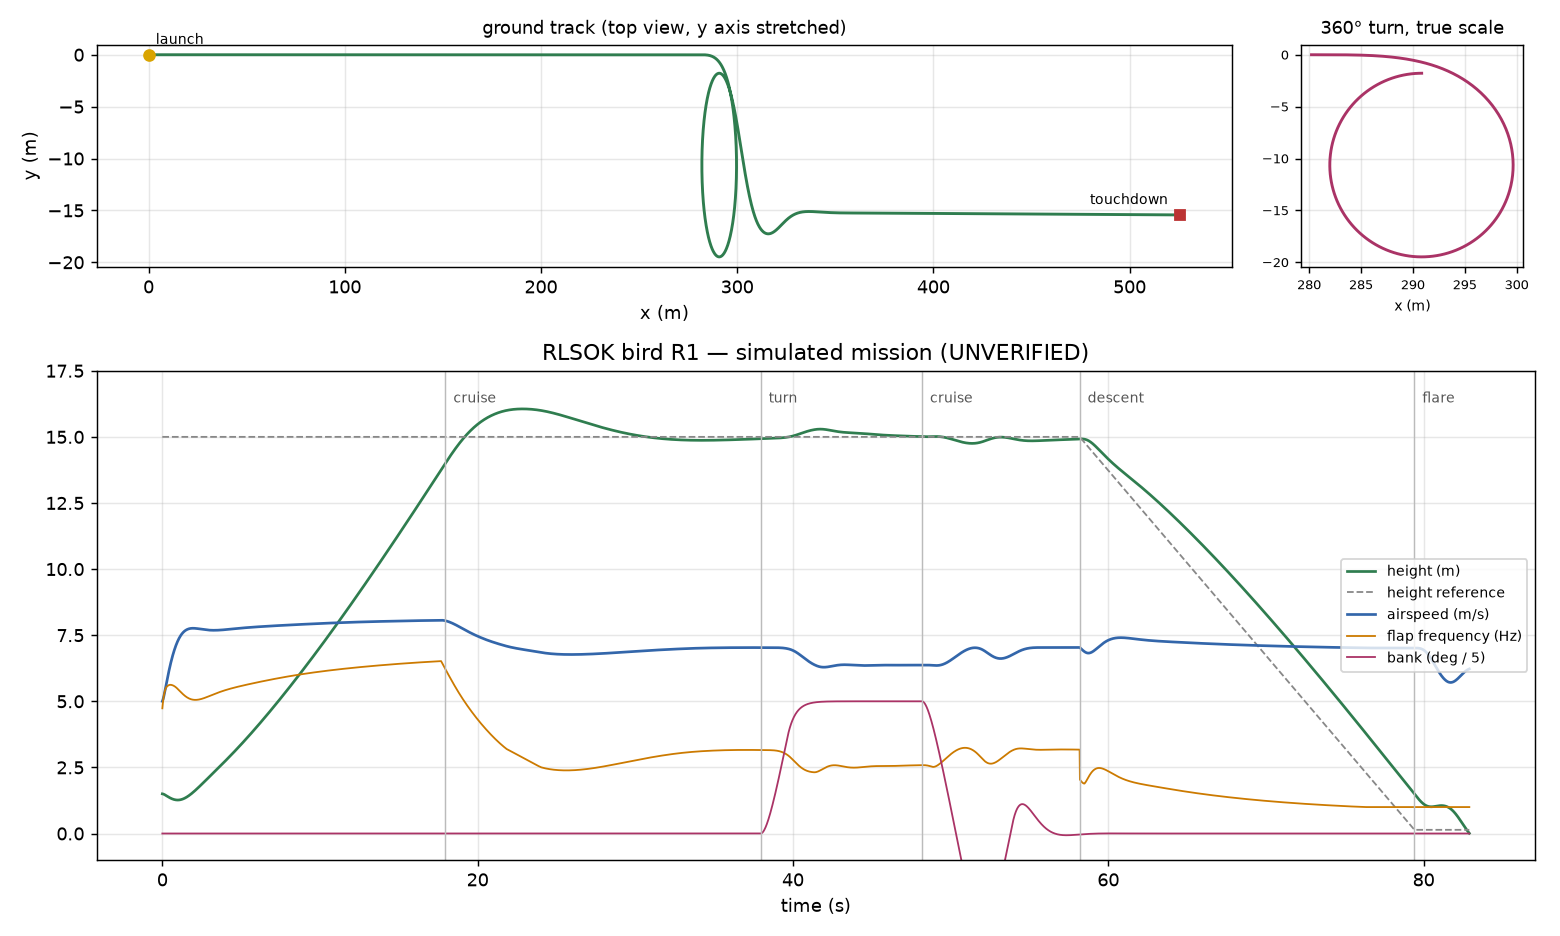
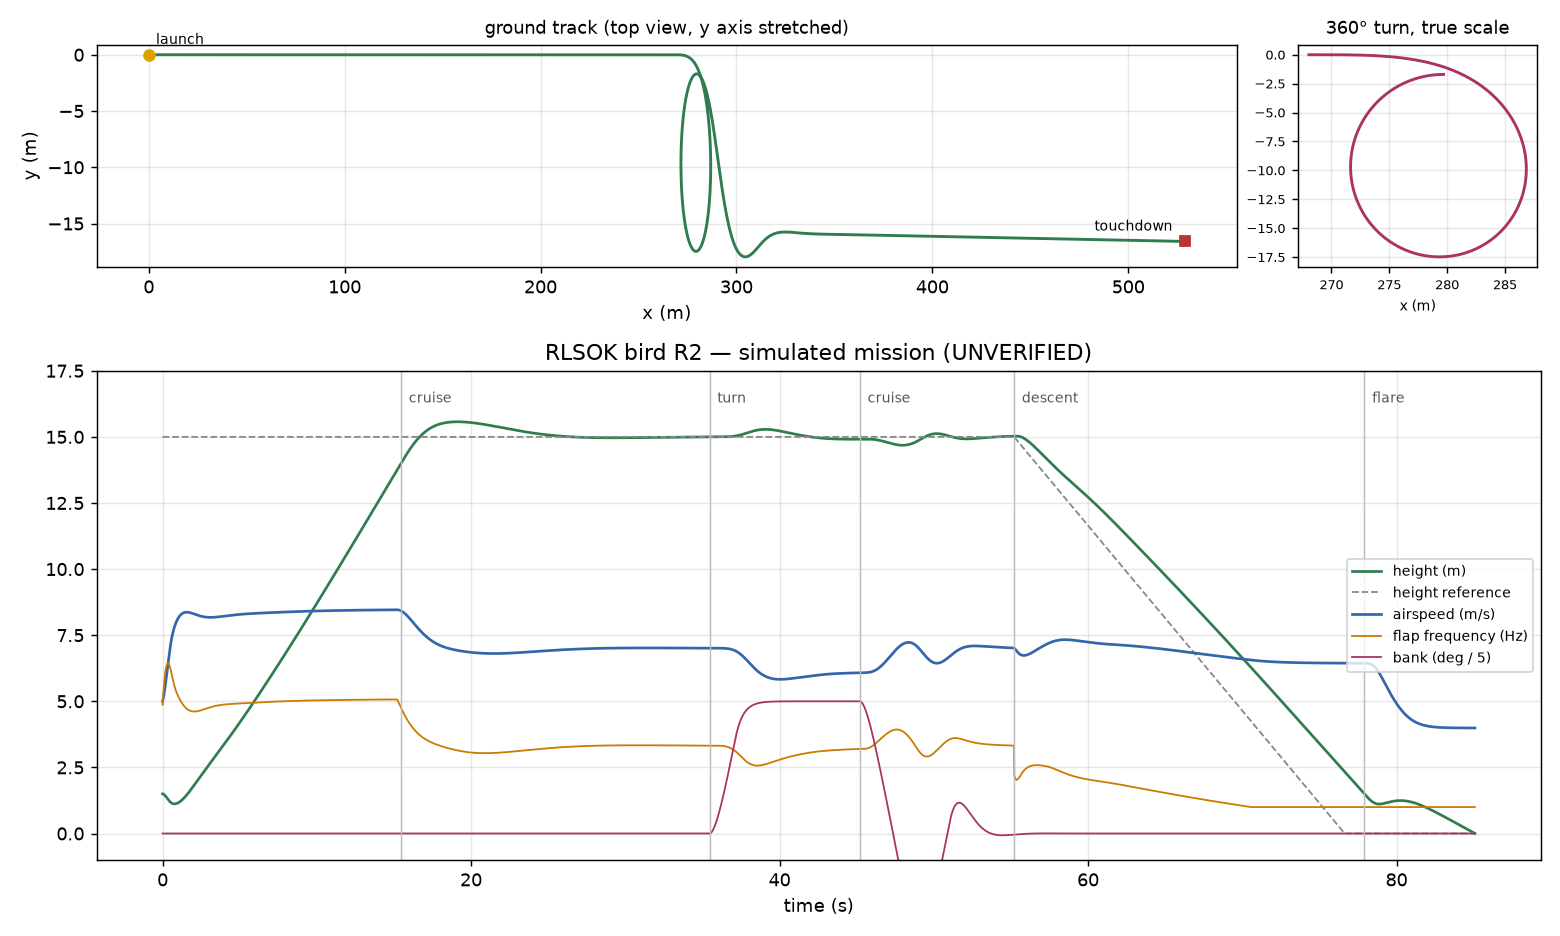
site: RLSOK 0.1.8, bird R2 r2e (DeLaurier two-wing model; UVLM, SmartBird and Eye-Bird checks)

diff --git a/site/i18n.js b/site/i18n.js
@@ -23,7 +23,7 @@ window.RLSOK_I18N = {
     cd: '如实判定：后退跟踪 0.146 > 0.130', cdv: '未通过',
     open: '打开 ↗', g1k: 'G1 人形 · 引擎一致性', g1: '10 个随机种子不摔 · 与上游 mjlab 观测差 1.4e-5',
     relPage: 'GitHub Releases 发布页 ↗',
-    birdk: '仿生鸟 R2 · 像真鸟的外形 + 航线仿真', bird: '手抛 · 爬升 15 m · 平飞 · 360° 转弯 · 降落；22 组（姿态滞后、振荡姿态、风）全过', birdTag: '仅仿真通过 · 未验证', birdDl: '下载制作包：零件清单与参考价 · 打印文件 · 裁剪模板 · 飞控参数 ↓', fig3: '图 3 · RLSOK 仿生鸟 R2（原创外形，海鸥/鸢比例，翼展 1.46 m，349 g）在 RLSOK 仿真中完成航线。两翼气动在唯一的公开实测点（SmartBird）和高精度仿真核对上都未通过，姿态模型四次验证未通过：需要真机数据确认', fig3b: '航线仿真记录：地面轨迹、高度、空速、扑动频率、坡度。巡航 7 m/s、扑动 3.1 Hz、续航 ≤ 15 min（上限）',
+    birdk: '仿生鸟 R2 · 像真鸟的外形 + 航线仿真', bird: '手抛 · 爬升 15 m · 平飞 · 360° 转弯 · 降落；22 组（姿态滞后、振荡姿态、风）全过', birdTag: '仅仿真通过 · 未验证', birdDl: '下载制作包：零件清单与参考价 · 打印文件 · 裁剪模板 · 飞控参数 ↓', fig3: '图 3 · RLSOK 仿生鸟 R2（原创外形，海鸥/鸢比例，翼展 1.46 m，349 g）在 RLSOK 仿真中完成航线。两翼气动改用 DeLaurier 模型（加扑动平面倾角），通过了 UVLM 高精度仿真核对和 SmartBird 实测点，但在 GRIFFIN Eye-Bird 慢飞实测上没有通过；姿态模型四次验证未通过：需要真机数据确认。视频录于上一版 r2d（外形相同，飞行数字以下图 r2e 为准）', fig3b: '航线仿真记录：地面轨迹、高度、空速、扑动频率、坡度。巡航 7 m/s、扑动 3.3 Hz、续航 ≤ 19.6 min（上限）',
     fig2: '图 2 · G1 官方策略在 RLSOK MuJoCo 引擎中行走（Apache-2.0）',
     reqT: '配置要求', rUse: '用途', rNeed: '需要',
     rBasic: '电路设计 · 机器人行走基准', rBasicN: 'Windows 10/11 64 位 · 8 GB 内存 · 1 GB 磁盘 · 不需要显卡',
@@ -36,7 +36,7 @@ window.RLSOK_I18N = {
     ti_duckv: '{h} 小时 · level 2 通过', sec: '{s} 秒', EST: '估算', MEASURED: '实测',
     reqNote: '最低配置没有在更低端的电脑上测过。G1 训练只测了吞吐和显存（20 次迭代），没有跑完整训练；“约 N 小时”是按实测速度算的估计。',
     engT: '引擎状态', eEngine: '引擎', eDomain: '领域', eState: '状态',
-    e_ngspice: '电路', e_mujoco: '机器人动力学', e_train: '策略训练复现（Open Duck，3 亿步）', e_mjlab: 'G1 训练（吞吐已实测，训练结果未验证）', e_rtl: 'GPU RTL 仿真', e_flap: '扑翼气动力（仅 DelFly 类 X 形翼、11–15 Hz、0.25–1.4 m/s，周期平均升力/推力，公开飞行数据留出验证）', e_batt: '扑翼姿态动力学（四次验证未通过；第 4 次测准了俯仰模态但物理模型不稳定；仿真扫描滞后与振荡两类假设）', e_bird: '两翼扑翼气动（条带理论）：SmartBird 实测点核对未通过（频率），UVLM 高精度仿真核对未通过（升力已按 0.78 保守修正）；设计流程与 22 组航线仿真结果全部未验证', e_ccx: '结构强度', e_foam: '流体',
+    e_ngspice: '电路', e_mujoco: '机器人动力学', e_train: '策略训练复现（Open Duck，3 亿步）', e_mjlab: 'G1 训练（吞吐已实测，训练结果未验证）', e_rtl: 'GPU RTL 仿真', e_flap: '扑翼气动力（仅 DelFly 类 X 形翼、11–15 Hz、0.25–1.4 m/s，周期平均升力/推力，公开飞行数据留出验证）', e_batt: '扑翼姿态动力学（四次验证未通过；第 4 次测准了俯仰模态但物理模型不稳定；仿真扫描滞后与振荡两类假设）', e_bird: '两翼扑翼气动（DeLaurier + 扑动平面倾角）：UVLM 核对通过（求解器已对 Garrick 理论核过），SmartBird 实测点通过（频率差 22 %），GRIFFIN Eye-Bird 慢飞实测未通过（3–5 m/s 升力低估约一半）；设计流程与 22 组航线仿真结果全部未验证', e_ccx: '结构强度', e_foam: '流体',
     VERIFIED: '已验证', UNVERIFIED: '未验证', PLANNED: '计划中', NOT_RUN: '未运行', FAILED: '未通过', INFEASIBLE: '不可实现', PASS: '通过',
     eNote: '“已验证”只在声明的条件下成立；每一行都能追溯到原始运行记录。',
     ctaT: '在你自己的电脑上运行', cta: '下载、安装、点一个示例。实测约 5 分钟看到第一个真实结果（G1 示例）。', ctaBtn: '下载 →',
@@ -81,7 +81,7 @@ window.RLSOK_I18N = {
     cd: 'Reported as is: backward tracking 0.146 > 0.130', cdv: 'Failed',
     open: 'Open ↗', g1k: 'G1 humanoid · engine consistency', g1: '0 falls in 10 random seeds · 1.4e-5 observation difference vs upstream mjlab',
     relPage: 'GitHub Releases page ↗',
-    birdk: 'Bionic bird R2 · bird-like shape + mission simulation', bird: 'Hand launch · climb 15 m · cruise · 360° turn · landing; all 22 runs pass (attitude lags, oscillatory attitude, wind)', birdTag: 'Simulation only · unverified', birdDl: 'Download the build package: parts list and reference prices · print files · cutting template · flight parameters ↓', fig3: 'Fig. 3 · RLSOK bird R2 (original shape, gull / kite proportions, 1.46 m span, 349 g) flying its mission in the RLSOK simulation. The two-wing aerodynamics failed both the only published measured point (SmartBird) and a high-fidelity simulation cross-check; the attitude model failed validation four times: real flight data is needed', fig3b: 'Mission log: ground track, height, airspeed, flap frequency, bank. Cruise 7 m/s, flapping 3.1 Hz, endurance ≤ 15 min (upper bound)',
+    birdk: 'Bionic bird R2 · bird-like shape + mission simulation', bird: 'Hand launch · climb 15 m · cruise · 360° turn · landing; all 22 runs pass (attitude lags, oscillatory attitude, wind)', birdTag: 'Simulation only · unverified', birdDl: 'Download the build package: parts list and reference prices · print files · cutting template · flight parameters ↓', fig3: 'Fig. 3 · RLSOK bird R2 (original shape, gull / kite proportions, 1.46 m span, 349 g) flying its mission in the RLSOK simulation. The two-wing aerodynamics now use the DeLaurier model with stroke-plane tilt: it passed the UVLM high-fidelity cross-check and the SmartBird measured point but failed the GRIFFIN Eye-Bird slow-flight data; the attitude model failed validation four times: real flight data is needed. The video was recorded on the previous version r2d (same shape; the chart below is r2e)', fig3b: 'Mission log: ground track, height, airspeed, flap frequency, bank. Cruise 7 m/s, flapping 3.3 Hz, endurance ≤ 19.6 min (upper bound)',
     fig2: 'Fig. 2 · G1 official policy walking in the RLSOK MuJoCo engine (Apache-2.0)',
     reqT: 'System requirements', rUse: 'Use', rNeed: 'You need',
     rBasic: 'Circuits · robot walking benchmark', rBasicN: 'Windows 10/11 64-bit · 8 GB RAM · 1 GB disk · no GPU needed',
@@ -94,7 +94,7 @@ window.RLSOK_I18N = {
     ti_duckv: '{h} h · level 2 passed', sec: '{s} s', EST: 'Estimate', MEASURED: 'Measured',
     reqNote: 'The minimum has not been tested on lower-end PCs. G1 training was measured for throughput and memory only (20 iterations), not run to completion; “≈ N h” is computed from the measured speed.',
     engT: 'Engine status', eEngine: 'Engine', eDomain: 'Domain', eState: 'Status',
-    e_ngspice: 'Circuits', e_mujoco: 'Robot dynamics', e_train: 'Policy training reproduction (Open Duck, 300M steps)', e_mjlab: 'G1 training (throughput measured, results unverified)', e_rtl: 'GPU RTL simulation', e_flap: 'Flapping-wing aerodynamics (DelFly-like X-wings only, 11–15 Hz, 0.25–1.4 m/s, cycle-average lift/thrust, held-out public flight data)', e_batt: 'Flapping-wing attitude dynamics (failed validation four times; attempt 4 measured the pitch mode but the physics model is unstable; the sim sweeps lag and oscillatory assumptions)', e_bird: 'Two-wing flapping aerodynamics (strip theory): failed the SmartBird measured point (frequency) and the UVLM high-fidelity cross-check (lift corrected by 0.78); design flow and 22-run mission results all unverified', e_ccx: 'Structural strength', e_foam: 'Fluid flow',
+    e_ngspice: 'Circuits', e_mujoco: 'Robot dynamics', e_train: 'Policy training reproduction (Open Duck, 300M steps)', e_mjlab: 'G1 training (throughput measured, results unverified)', e_rtl: 'GPU RTL simulation', e_flap: 'Flapping-wing aerodynamics (DelFly-like X-wings only, 11–15 Hz, 0.25–1.4 m/s, cycle-average lift/thrust, held-out public flight data)', e_batt: 'Flapping-wing attitude dynamics (failed validation four times; attempt 4 measured the pitch mode but the physics model is unstable; the sim sweeps lag and oscillatory assumptions)', e_bird: 'Two-wing flapping aerodynamics (DeLaurier + stroke-plane tilt): passed the UVLM cross-check (solver checked against Garrick theory) and the SmartBird measured point (frequency within 22 %), failed the GRIFFIN Eye-Bird slow-flight data (lift about half too low at 3–5 m/s); design flow and 22-run mission results all unverified', e_ccx: 'Structural strength', e_foam: 'Fluid flow',
     VERIFIED: 'Verified', UNVERIFIED: 'Unverified', PLANNED: 'Planned', NOT_RUN: 'Not run', FAILED: 'Failed', INFEASIBLE: 'Infeasible', PASS: 'Pass',
     eNote: '“Verified” holds only under the stated conditions; every row traces back to an original run record.',
     ctaT: 'Run it on your own computer', cta: 'Download, install, press an example. About 5 minutes to the first real result (G1 example, measured).', ctaBtn: 'Download →',

diff --git a/site/index.html b/site/index.html
@@ -7,7 +7,7 @@
 <meta name="theme-color" content="#0b0d0c"><link rel="canonical" href="https://rlsok.com/">
 <meta property="og:title" content="RLSOK"><meta property="og:description" content="Your AI designs. RLSOK checks it against reality."><meta property="og:type" content="website"><meta property="og:url" content="https://rlsok.com/"><meta property="og:image" content="https://rlsok.com/social.svg">
 <link rel="icon" href="favicon.svg?v=19345691d2" type="image/svg+xml"><link rel="stylesheet" href="styles.css?v=17ad95bcf0">
-<script src="i18n.js?v=71c5c1f2c2" defer></script><script src="scope.js?v=73b29d41f4" defer></script><script src="app.js?v=f3aa625698" defer></script>
+<script src="i18n.js?v=851c16f70b" defer></script><script src="scope.js?v=73b29d41f4" defer></script><script src="app.js?v=f3aa625698" defer></script>
 </head>
 <body>
 <a class="skip" href="#main" data-t="skip">Skip to content</a>
@@ -20,7 +20,7 @@
   <h1 data-th="h1">Your AI designs.<br>RLSOK checks it against reality.</h1>
   <p class="scopesite" data-t="scopeSite"></p>
   <div class="dl">
-    <a class="btn dlbtn" id="dl-btn" href="https://github.com/ZqiEE/rlsok-engineering/releases/download/v0.1.7/RLSOK-0.1.7-windows-x64.zip"><span id="dl-label" data-t="dlWin">Download for Windows</span><small id="dl-meta"></small></a>
+    <a class="btn dlbtn" id="dl-btn" href="https://github.com/ZqiEE/rlsok-engineering/releases/download/v0.1.8/RLSOK-0.1.8-windows-x64.zip"><span id="dl-label" data-t="dlWin">Download for Windows</span><small id="dl-meta"></small></a>
     <div class="dlside"><p id="dl-os" class="dlos"></p>
       <div class="mob" id="mob" hidden><button type="button" class="btn alt" id="copy-link" data-t="copyLink">Copy download link</button><a class="btn alt" id="mail-link" data-t="mailLink" href="#">Email it to me</a></div>
       <p class="dlmeta"><a href="start.html" data-t="dlHow">Install guide</a> · <span data-t="dlFree">Free · runs on your computer · your AI, your GPU</span></p>
@@ -37,9 +37,9 @@
 <section class="wrap block" id="bird">
   <div class="robot">
     <figure class="video"><video src="media/bird_r2_mission.mp4#t=0.5" poster="media/bird_r2_poster.webp" muted playsinline controls preload="metadata" aria-describedby="fig3"></video><figcaption id="fig3" data-t="fig3"></figcaption></figure>
-    <a class="case flat" id="bird-dl" href="https://github.com/ZqiEE/rlsok-engineering/releases/download/bird-r2/RLSOK-bird-R2-build-package.zip"><span class="k" data-t="birdk"></span><b class="big" id="v-bird">22/22</b><span class="d" data-t="bird"></span><span class="tag warn" data-t="birdTag">Simulation only · unverified</span><span class="d" data-t="birdDl"></span><span class="d sha">SHA256 <code data-sha-bird></code></span></a>
+    <a class="case flat" id="bird-dl" href="https://github.com/ZqiEE/rlsok-engineering/releases/download/bird-r2-2/RLSOK-bird-R2-build-package.zip"><span class="k" data-t="birdk"></span><b class="big" id="v-bird">22/22</b><span class="d" data-t="bird"></span><span class="tag warn" data-t="birdTag">Simulation only · unverified</span><span class="d" data-t="birdDl"></span><span class="d sha">SHA256 <code data-sha-bird></code></span></a>
   </div>
-  <figure class="chart"><img src="media/bird_r2_charts.png?v=b23cded96b" width="1560" height="936" alt="" loading="lazy"><figcaption data-t="fig3b"></figcaption></figure>
+  <figure class="chart"><img src="media/bird_r2_charts.png?v=6c10adea04" width="1560" height="936" alt="" loading="lazy"><figcaption data-t="fig3b"></figcaption></figure>
 </section>
 
 <section id="start" class="wrap block">

diff --git a/site/start.html b/site/start.html
@@ -4,7 +4,7 @@
 <meta charset="utf-8"><meta name="viewport" content="width=device-width,initial-scale=1">
 <title>Install guide — RLSOK</title><meta name="description" content="Install RLSOK on Windows: download, double-click, done. SmartScreen, checksum and uninstall explained.">
 <link rel="canonical" href="https://rlsok.com/start.html"><meta name="theme-color" content="#0b0d0c"><link rel="icon" href="favicon.svg?v=19345691d2" type="image/svg+xml"><link rel="stylesheet" href="styles.css?v=17ad95bcf0">
-<script src="i18n.js?v=71c5c1f2c2" defer></script><script src="app.js?v=f3aa625698" defer></script>
+<script src="i18n.js?v=851c16f70b" defer></script><script src="app.js?v=f3aa625698" defer></script>
 </head>
 <body>
 <a class="skip" href="#main" data-t="skip">Skip to content</a>
@@ -12,7 +12,7 @@
 <main id="main" class="wrap page">
   <a class="back" href="./" data-t="back">← Home</a>
   <h1 data-t="gsH1">Install RLSOK</h1>
-  <p><a class="btn dlbtn" id="dl-btn" href="https://github.com/ZqiEE/rlsok-engineering/releases/download/v0.1.7/RLSOK-0.1.7-windows-x64.zip"><span data-t="dlWin">Download for Windows</span><small id="dl-meta"></small></a></p>
+  <p><a class="btn dlbtn" id="dl-btn" href="https://github.com/ZqiEE/rlsok-engineering/releases/download/v0.1.8/RLSOK-0.1.8-windows-x64.zip"><span data-t="dlWin">Download for Windows</span><small id="dl-meta"></small></a></p>
   <p id="dl-os" class="dlos"></p>
   <ol class="howto">
     <li><b data-t="gs1"></b><span data-gs1p></span></li>
@@ -22,7 +22,7 @@
   </ol>
   <h2 data-t="shaT">Check the file</h2>
   <p data-t="shaP"></p>
-  <pre><code>Get-FileHash .\<span data-file>RLSOK-0.1.7-windows-x64.zip</span></code></pre>
+  <pre><code>Get-FileHash .\<span data-file>RLSOK-0.1.8-windows-x64.zip</span></code></pre>
   <pre><code data-sha></code></pre>
   <h2 data-t="unT">Uninstall</h2><p data-t="unP"></p>
   <h2 data-t="whereT">Where things are</h2><p data-t="whereP"></p>

diff --git a/site/case.html b/site/case.html
@@ -4,7 +4,7 @@
 <meta charset="utf-8"><meta name="viewport" content="width=device-width,initial-scale=1">
 <title>Case — RLSOK</title><meta name="description" content="A real RLSOK run: requirement, every round, the verdict and the source file hash.">
 <meta name="theme-color" content="#0b0d0c"><link rel="icon" href="favicon.svg?v=19345691d2" type="image/svg+xml"><link rel="stylesheet" href="styles.css?v=17ad95bcf0">
-<script src="i18n.js?v=71c5c1f2c2" defer></script><script src="app.js?v=f3aa625698" defer></script>
+<script src="i18n.js?v=851c16f70b" defer></script><script src="app.js?v=f3aa625698" defer></script>
 </head>
 <body>
 <header class="bar"><a class="brand" href="./">RLSOK</a><nav aria-label="Main"><a href="./#cases" data-t="navCases">Cases</a><a href="start.html" data-t="navStart">Get started</a><button type="button" class="lang" data-lang>中文</button></nav></header>

diff --git a/site/legacy.html b/site/legacy.html
@@ -4,7 +4,7 @@
 <meta charset="utf-8"><meta name="viewport" content="width=device-width,initial-scale=1">
 <title>Page moved — RLSOK</title><meta name="robots" content="noindex"><link rel="canonical" href="https://rlsok.com/"><meta http-equiv="refresh" content="5; url=./">
 <meta name="theme-color" content="#0b0d0c"><link rel="icon" href="favicon.svg?v=19345691d2" type="image/svg+xml"><link rel="stylesheet" href="styles.css?v=17ad95bcf0">
-<script src="i18n.js?v=71c5c1f2c2" defer></script><script src="app.js?v=f3aa625698" defer></script>
+<script src="i18n.js?v=851c16f70b" defer></script><script src="app.js?v=f3aa625698" defer></script>
 </head>
 <body>
 <header class="bar"><a class="brand" href="./">RLSOK</a><nav aria-label="Main"><button type="button" class="lang" data-lang>中文</button></nav></header>
